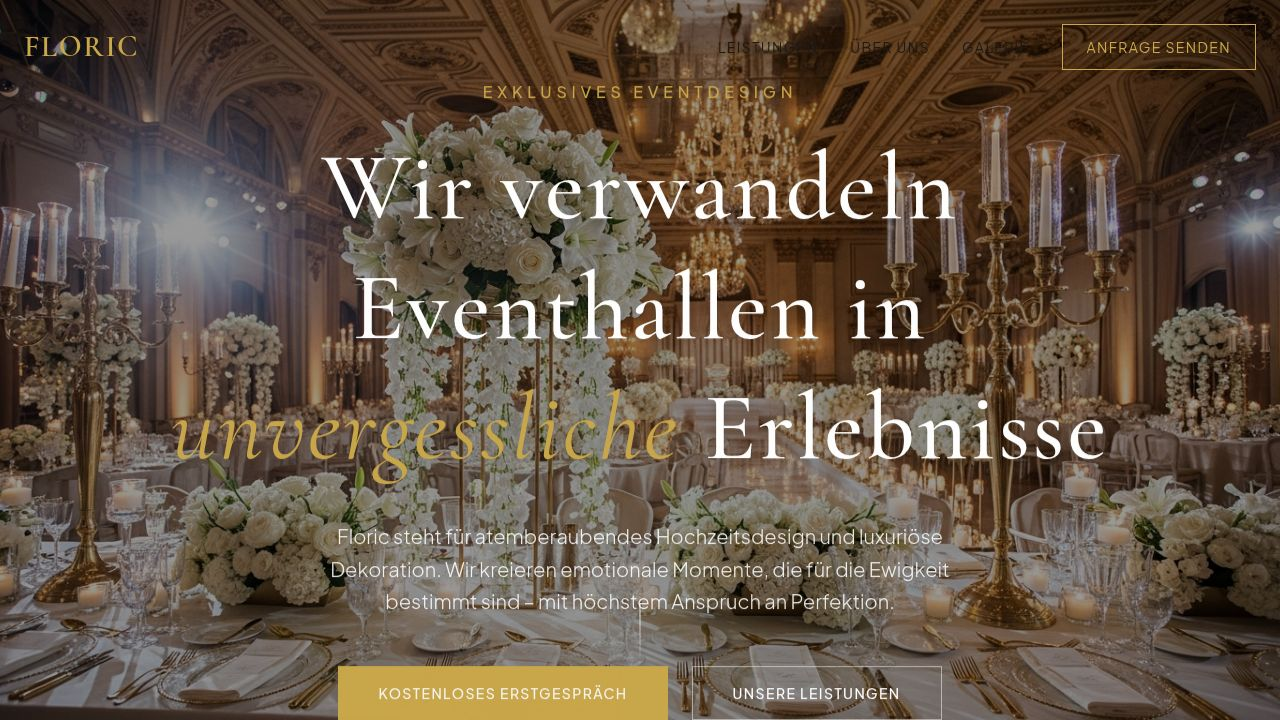
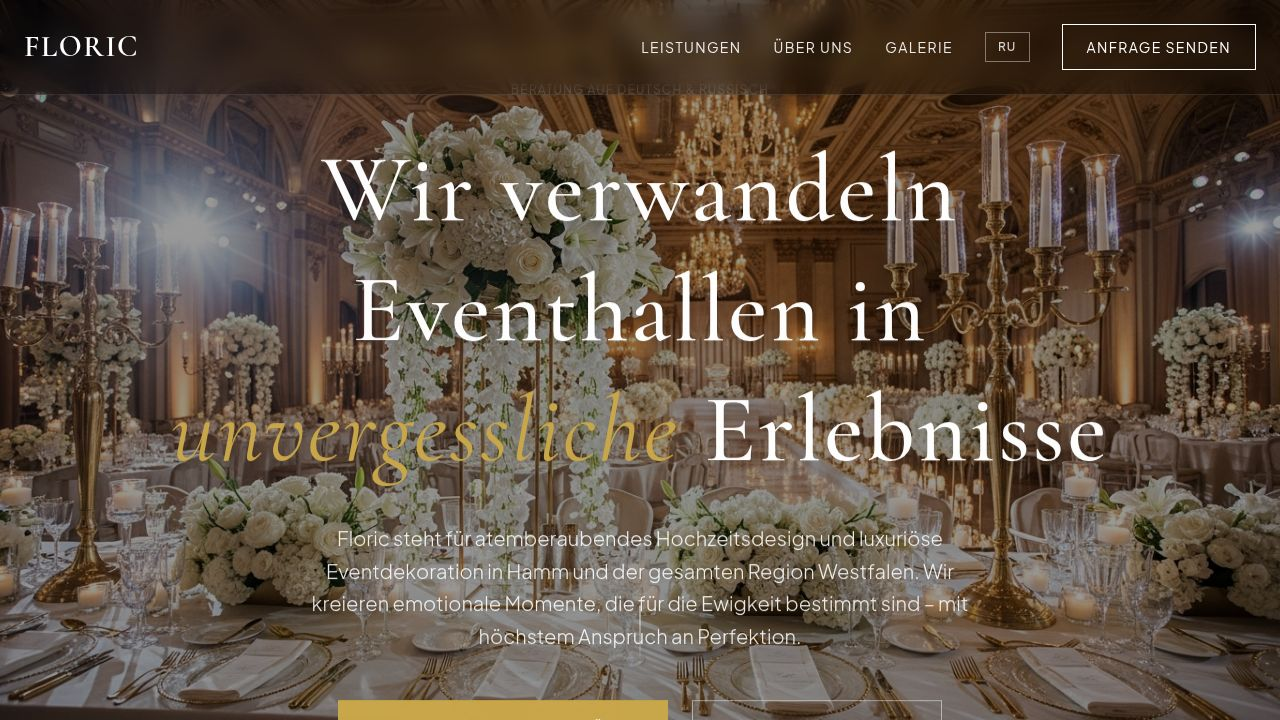
Improve mobile layout and navigation experience
Update mobile navigation overlay to a dark theme and adjust gallery grid responsiveness for better mobile display.

Replit-Commit-Author: Agent
Replit-Commit-Session-Id: 28f01033-754f-4f11-a46d-6238ef9c1107
Replit-Commit-Checkpoint-Type: full_checkpoint
Replit-Commit-Event-Id: 7241d106-44ca-4ea9-89b8-d9edb0e703e8
Replit-Commit-Screenshot-Url: https://storage.googleapis.com/screenshot-production-us-central1/306ecc4d-bf30-4405-8e82-7a6512c7b04a/28f01033-754f-4f11-a46d-6238ef9c1107/k7QKeSr
Replit-Helium-Checkpoint-Created: true

diff --git a/artifacts/floric/src/components/layout/Navbar.tsx b/artifacts/floric/src/components/layout/Navbar.tsx
@@ -90,14 +90,16 @@ export function Navbar() {
       </header>
 
       {mobileOpen && (
-        <div className="fixed inset-0 z-40 bg-background/98 backdrop-blur-lg flex flex-col items-center justify-center gap-10 md:hidden">
-          <button onClick={() => scrollToSection("leistungen")} className="text-2xl font-serif text-foreground hover:text-primary transition-colors" data-testid="mobile-nav-leistungen">{t.nav.services}</button>
-          <button onClick={() => scrollToSection("ueber-uns")} className="text-2xl font-serif text-foreground hover:text-primary transition-colors" data-testid="mobile-nav-about">{t.nav.about}</button>
-          <button onClick={() => scrollToSection("galerie")} className="text-2xl font-serif text-foreground hover:text-primary transition-colors" data-testid="mobile-nav-gallery">{t.nav.gallery}</button>
-          <button onClick={() => scrollToSection("kontakt")} className="text-2xl font-serif text-foreground hover:text-primary transition-colors" data-testid="mobile-nav-contact">{t.nav.contact}</button>
+        <div className="fixed inset-0 z-40 bg-[#111] flex flex-col items-center justify-center gap-10 md:hidden">
+          <div className="w-16 h-[1px] bg-primary mb-4"></div>
+          <button onClick={() => scrollToSection("leistungen")} className="text-3xl font-serif text-white hover:text-primary transition-colors duration-300" data-testid="mobile-nav-leistungen">{t.nav.services}</button>
+          <button onClick={() => scrollToSection("ueber-uns")} className="text-3xl font-serif text-white hover:text-primary transition-colors duration-300" data-testid="mobile-nav-about">{t.nav.about}</button>
+          <button onClick={() => scrollToSection("galerie")} className="text-3xl font-serif text-white hover:text-primary transition-colors duration-300" data-testid="mobile-nav-gallery">{t.nav.gallery}</button>
+          <button onClick={() => scrollToSection("kontakt")} className="text-3xl font-serif text-white hover:text-primary transition-colors duration-300" data-testid="mobile-nav-contact">{t.nav.contact}</button>
+          <div className="w-16 h-[1px] bg-primary mt-4"></div>
           <button
             onClick={() => scrollToSection("kontakt")}
-            className="mt-4 px-10 py-4 bg-primary text-primary-foreground uppercase tracking-widest text-sm font-medium"
+            className="px-12 py-4 bg-primary text-primary-foreground uppercase tracking-widest text-sm font-medium hover:bg-primary/90 transition-colors"
             data-testid="mobile-nav-cta"
           >
             {t.nav.cta}

diff --git a/artifacts/floric/src/components/sections/Gallery.tsx b/artifacts/floric/src/components/sections/Gallery.tsx
@@ -26,7 +26,7 @@ export function Gallery() {
           <div className="w-24 h-[1px] bg-primary mx-auto"></div>
         </div>
 
-        <div className="grid grid-cols-1 md:grid-cols-4 gap-4 auto-rows-[300px]">
+        <div className="grid grid-cols-1 md:grid-cols-4 gap-4 md:auto-rows-[300px]">
           {galleryImages.map((img, idx) => (
             <GalleryItem key={idx} img={img} index={idx} />
           ))}